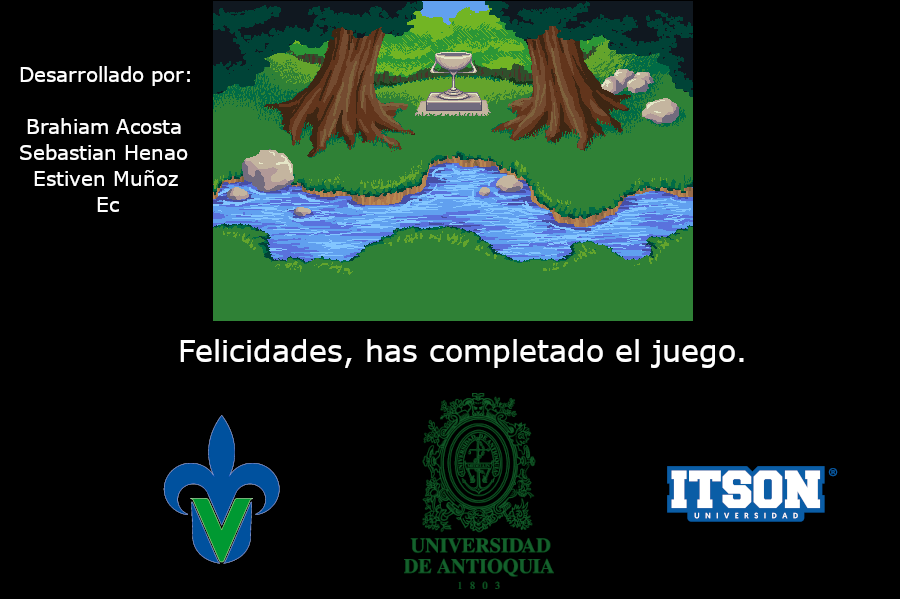
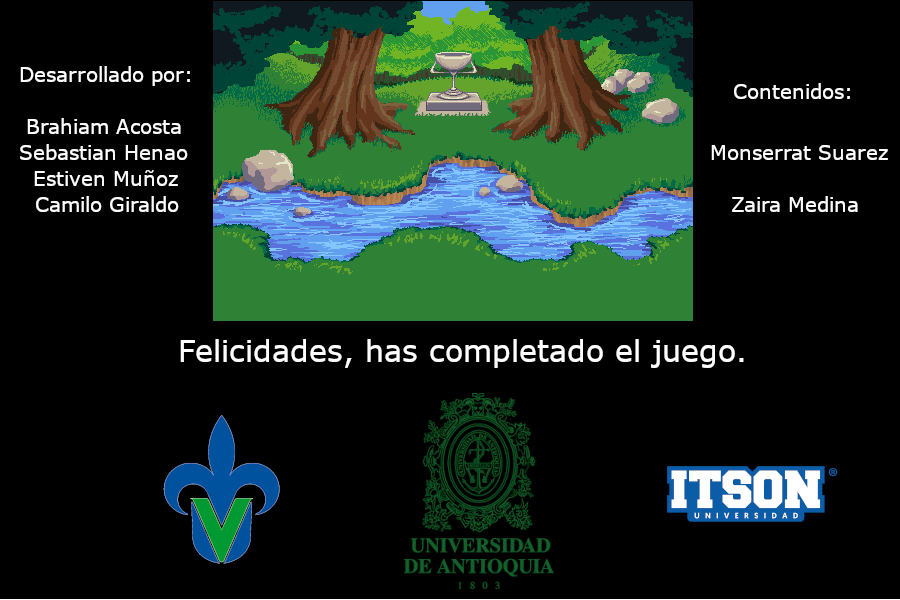
modificicación pantalla final y ajusta pantalla de controles

diff --git a/src/main/java/ParteGrafica/vista/SpriteAnimation.java b/src/main/java/ParteGrafica/vista/SpriteAnimation.java
@@ -166,7 +166,7 @@ public class SpriteAnimation extends JPanel implements KeyListener {
                 g.drawImage(sprite, x, y, null);
             }
             if(!saltoControles){
-                g.drawImage(controles,150,130,null);
+                g.drawImage(controles,150,100,null);
             }
         }
         else{
